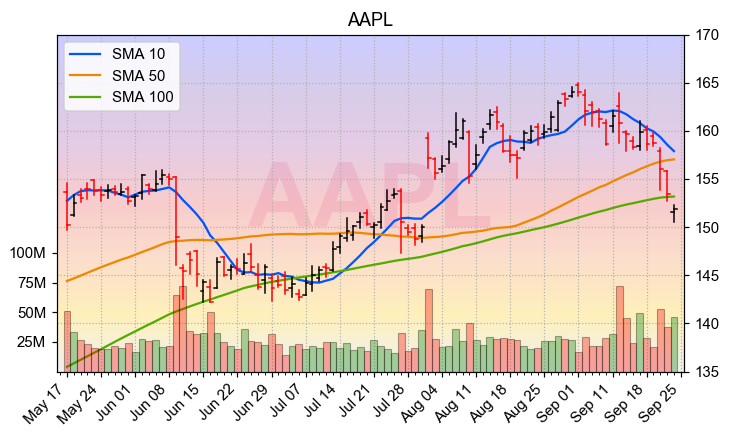
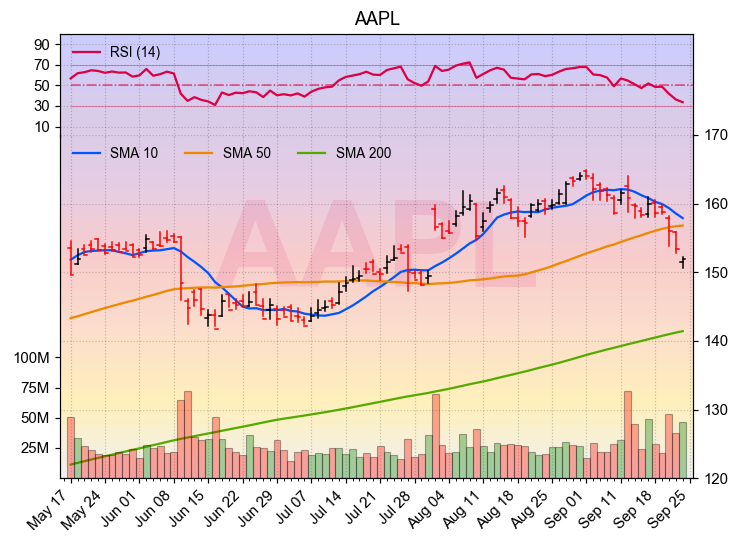
Updated plot; Reverted back to Close from Adj Close

diff --git a/chart.py b/chart.py
@@ -39,10 +39,11 @@ def showChart(panel, sma_sizes = DEFAULT_SMA_SIZES, rsi_period = 14, skip_weeken
 
     # Get the first frame
     dat = panel.iloc[:, :, 0]
-    if dat.keys().contains('Adj Close'):
-        close_label = 'Adj Close'
-    else:
-        close_label = 'Close'
+    # if dat.keys().contains('Adj Close'):
+    #     close_label = 'Adj Close'
+    # else:
+    #     close_label = 'Close'
+    close_label = 'Close'
     quotes = np.transpose([
         list(range(len(dat))),
         list(matplotlib.dates.date2num(dat.index.tolist())),
@@ -120,7 +121,7 @@ def showChart(panel, sma_sizes = DEFAULT_SMA_SIZES, rsi_period = 14, skip_weeken
         ylim = [round(ylim[0] * 0.2 - 1.0) * 5.0, round(ylim[1] * 0.2 + 1.0) * 5.0]
 
     # RSI line
-    x = dat.loc[:, 'Close']
+    x = dat.loc[:, close_label]
     if x.index[0] > x.index[1]:
         x = x[::-1]
     rsi = RSI(x, rsi_period)
@@ -135,9 +136,9 @@ def showChart(panel, sma_sizes = DEFAULT_SMA_SIZES, rsi_period = 14, skip_weeken
     axr.add_line(rsi_line_75)
 
     if skip_weekends:
-        rsi_line = matplotlib.lines.Line2D(quotes[:N, 0], rsi, label = 'RSI', color = color)
+        rsi_line = matplotlib.lines.Line2D(quotes[:N, 0], rsi, label = 'RSI ({})'.format(rsi_period), color = color)
     else:
-        rsi_line = matplotlib.lines.Line2D(quotes[:N, 1], rsi, label = 'RSI', color = color)
+        rsi_line = matplotlib.lines.Line2D(quotes[:N, 1], rsi, label = 'RSI ({})'.format(rsi_period), color = color)
     axr.add_line(rsi_line)
 
     axr.fill_between(range(N), rsi, RSI_OS, where = rsi <= RSI_OS, interpolate = True, color = color, alpha = 0.33, zorder = 3)
@@ -206,7 +207,8 @@ def showChart(panel, sma_sizes = DEFAULT_SMA_SIZES, rsi_period = 14, skip_weeken
 
     axr.set_ylim([-1, 100])
 
-    axr.set_yticks([0, RSI_OS, 50, RSI_OB, 100])
+    dr = RSI_OB - 50.0
+    axr.set_yticks([RSI_OS - dr, RSI_OS, 50, RSI_OB, RSI_OB + dr])
 
     L = len(quotes)
 
@@ -283,10 +285,17 @@ def showChart(panel, sma_sizes = DEFAULT_SMA_SIZES, rsi_period = 14, skip_weeken
     lines[1].set_color(colormap.line[1])
     lines[2].set_color(colormap.line[2])
 
-    leg = ax.legend(handles = lines, loc = 'best', ncol = 3, facecolor = colormap.background, frameon = False)
+    leg = ax.legend(handles = lines, loc = 'upper left', ncol = 3, frameon = False, fontsize = 9)
     for text in leg.get_texts():
         text.set_color(colormap.text)
-    
+    # if rsi[0] > 50:
+    #     loc = 'lower left'
+    # else:
+    #     loc = 'upper left'
+    leg_rsi = axr.legend(handles = [rsi_line], loc = 'upper left', frameon = False, fontsize = 9)
+    for text in leg_rsi.get_texts():
+        text.set_color(colormap.text)
+
     ax.grid(alpha = colormap.grid_alpha, color = colormap.grid, linestyle = ':')
     axr.grid(alpha = colormap.grid_alpha, color = colormap.grid, linestyle = ':')
     ax.tick_params(axis = 'x', which = 'both', colors = colormap.text)
@@ -320,7 +329,7 @@ class Chart:
     """
         A chart class
     """
-    def __init__(self, n, data = None, sma_sizes = DEFAULT_SMA_SIZES, color_scheme = 'sunrise', skip_weekends = True, forecast = 0):
+    def __init__(self, n, data = None, sma_sizes = DEFAULT_SMA_SIZES, rsi_period = 14, color_scheme = 'sunrise', skip_weekends = True, forecast = 0):
         linewidth = 1.0
         offset = 0.4
 
@@ -330,6 +339,7 @@ class Chart:
         self.colormap = colorscheme.colorscheme(color_scheme)
         self.skip_weekends = skip_weekends
         self.forecast = forecast
+        self.rsi_period = rsi_period
 
         self.fig = matplotlib.pyplot.figure()
         self.fig.patch.set_alpha(0.0)
@@ -373,7 +383,7 @@ class Chart:
         # RSI line
         color = self.colormap.line[3]
         y = np.multiply(range(self.n), 100.0 / self.n)
-        self.rsi_line = matplotlib.lines.Line2D(range(self.n), y, label = 'RSI', color = color)
+        self.rsi_line = matplotlib.lines.Line2D(range(self.n), y, label = 'RSI ({})'.format(self.rsi_period), color = color)
         self.rsi_fill_25 = self.axr.fill_between(range(self.n), y, RSI_OS, where = y <= RSI_OS, facecolor = color, interpolate = True, alpha = 0.33)
         self.rsi_fill_75 = self.axr.fill_between(range(self.n), y, RSI_OB, where = y >= RSI_OB, facecolor = color, interpolate = True, alpha = 0.33)
         self.axr.add_line(self.rsi_line)
@@ -417,8 +427,11 @@ class Chart:
         self.axq.add_line(line)
 
         # Legend
-        self.leg = self.axq.legend(handles = self.sma_lines, loc = 'upper left', ncol = 3, frameon = False)
+        self.leg = self.axq.legend(handles = self.sma_lines, loc = 'upper left', ncol = 3, frameon = False, fontsize = 9)
         for text in self.leg.get_texts():
+            text.set_color(self.colormap.text)
+        self.leg_rsi = self.axr.legend(handles = [self.rsi_line], loc = 'upper left', frameon = False, fontsize = 9)
+        for text in self.leg_rsi.get_texts():
             text.set_color(self.colormap.text)
 
         # Grid
@@ -446,11 +459,12 @@ class Chart:
         self.axv.xaxis.set_data_interval(-1.0, self.n + 2.0)
         self.axr.xaxis.set_data_interval(-1.0, self.n + 2.0)
 
-        self.axr.set_yticks([0, RSI_OS, 50, RSI_OB, 100])
+        dr = RSI_OB - 50.0
+        self.axr.set_yticks([RSI_OS - dr, RSI_OS, 50, RSI_OB, RSI_OB + dr])
 
         self.axq.set_ylim([0, 110])
         self.axv.set_ylim([0, 10])
-        self.axr.set_ylim([-1, 100])
+        self.axr.set_ylim([0, 100])
 
         self.title = self.axr.set_title(self.symbol, color = self.colormap.text)
 
@@ -540,10 +554,11 @@ class Chart:
 
         # Get the first frame
         data = panel.loc[:, :, self.symbol]
-        if data.keys().contains('Adj Close'):
-            close_label = 'Adj Close'
-        else:
-            close_label = 'Close'
+        # if data.keys().contains('Adj Close'):
+        #     close_label = 'Adj Close'
+        # else:
+        #     close_label = 'Close'
+        close_label = 'Close'
         quotes = np.transpose([
             data.loc[:, 'Open'].tolist(),
             data.loc[:, 'High'].tolist(),
@@ -620,7 +635,7 @@ class Chart:
             qlim = [round(qlim[0] * 0.2 - 1.0) * 5.0, round(qlim[1] * 0.2 + 1.0) * 5.0]
 
         # Compute RSI
-        self.rsi = RSI(data.loc[:, close_label])[-self.n:]
+        self.rsi = RSI(data.loc[:, close_label], self.rsi_period)[-self.n:]
         color = self.colormap.line[3]
         self.rsi_line.set_ydata(self.rsi)
         self.rsi_fill_25.remove()
@@ -632,8 +647,10 @@ class Chart:
         sma = self.sma[list(self.sma)[-2]]
         if sma[-10] > sma[0]:
             self.leg._loc = 2
+            self.leg_rsi._loc = 2
         else:
             self.leg._loc = 1
+            self.leg_rsi._loc = 1
 
         # Volume bars to have the mean at around 10% of the vertical space
         v = np.nanmean(quotes[-self.n:, 4])
